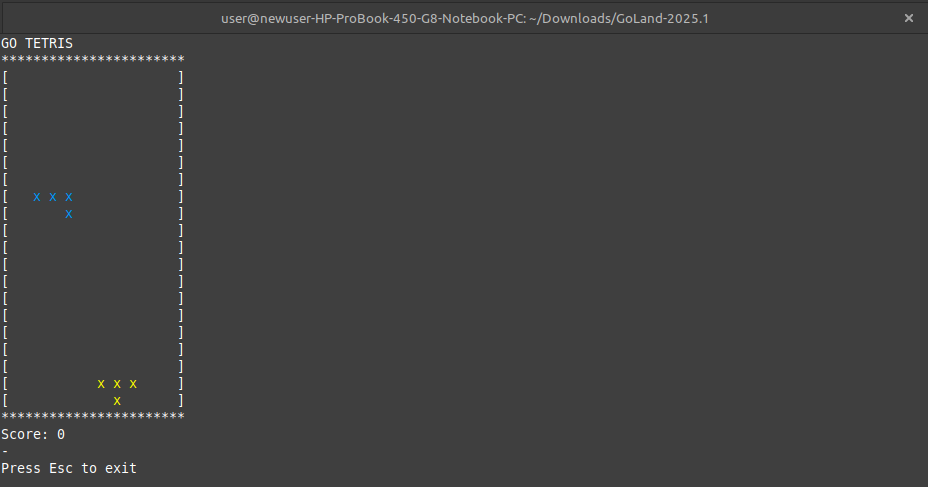
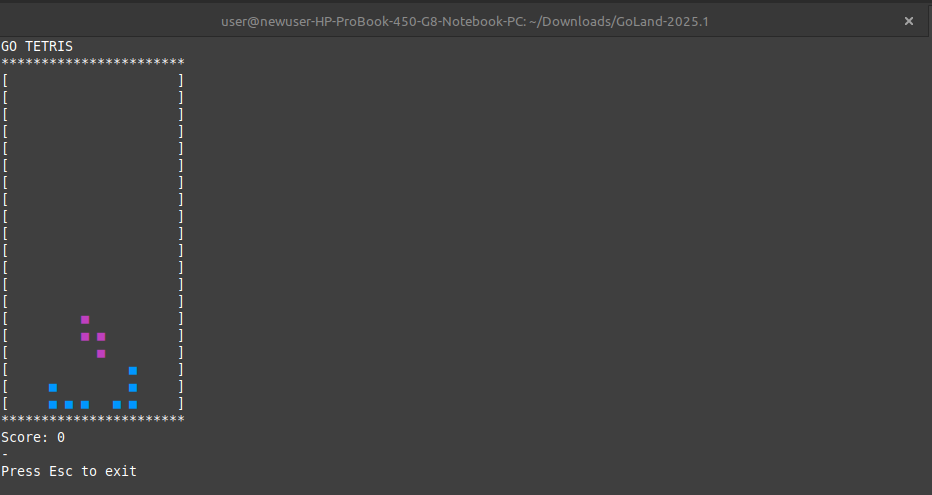
display blocks

diff --git a/game/tetris.go b/game/tetris.go
@@ -436,7 +436,7 @@ func (t *Tetris) printGrid() {
 			if cell > 0 {
 				style := lipgloss.NewStyle().
 					Foreground(lipgloss.Color(t.colors[cell]))
-				fmt.Printf(style.Render("x"))
+				fmt.Printf(style.Render("■"))
 			} else {
 				fmt.Printf(" ")
 			}
